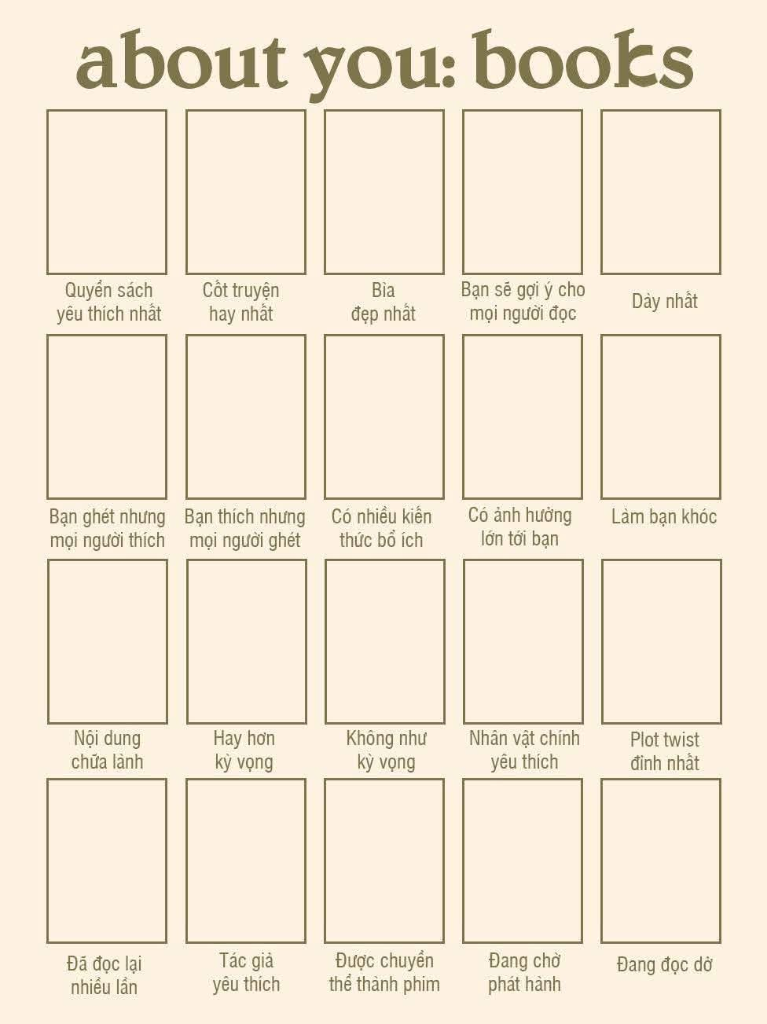
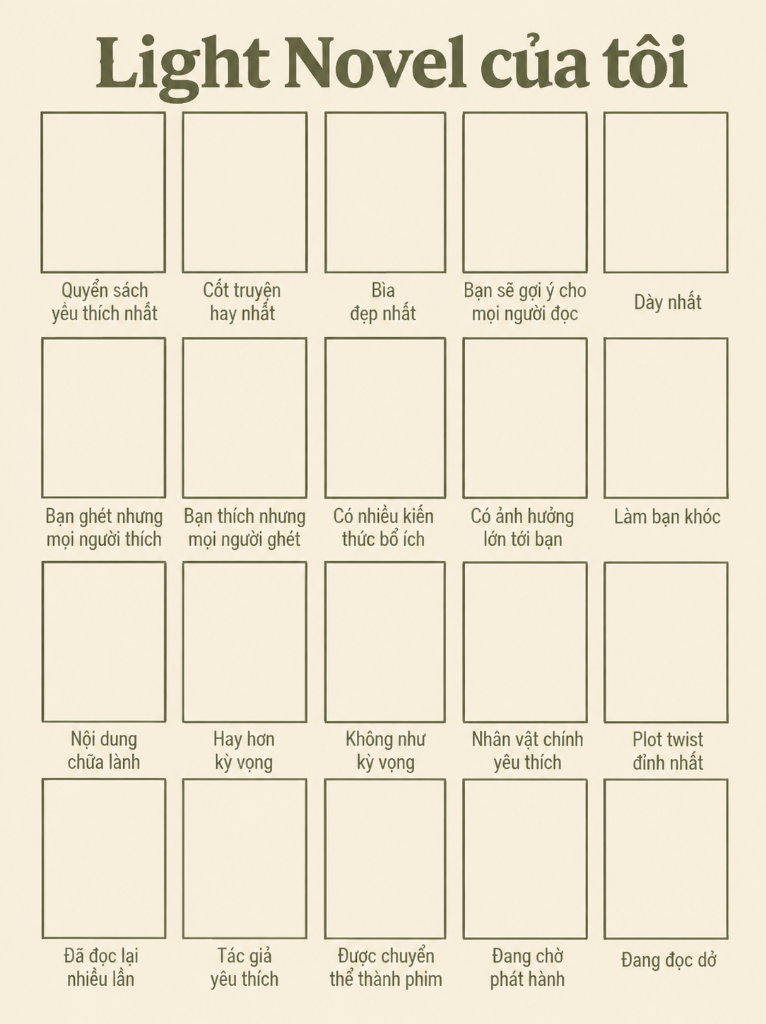
feat(collage): update template to 'Light Novel của tôi', lock watermark text, and fix volume cover selection

Changed region(s): [[0.03, 0.0312, 0.9608, 0.9688]]

diff --git a/src/app/collage/page.tsx b/src/app/collage/page.tsx
@@ -91,13 +91,24 @@ interface NovelCatalogItem {
   description?: string | null
 }
 
-const TEMPLATE_WIDTH = 767
+const TEMPLATE_WIDTH = 766
 const TEMPLATE_HEIGHT = 1024
+const FIXED_WATERMARK = 'LiDex • wibubros.id.vn'
 
-const GRID_COLS = [47, 186, 324, 463, 601]
-const GRID_ROWS = [110, 335, 559, 779]
-const BOX_WIDTH = 119
-const BOX_HEIGHT = 163
+const GRID_COLS = [
+  { x: 42, w: 123 },
+  { x: 183, w: 123 },
+  { x: 324, w: 121 },
+  { x: 463, w: 123 },
+  { x: 604, w: 123 },
+]
+
+const GRID_ROWS = [
+  { y: 112, h: 160 },
+  { y: 338, h: 159 },
+  { y: 562, h: 160 },
+  { y: 779, h: 159 },
+]
 
 function getCanvasImageUrl(url: string | null): string {
   if (!url) return ''
@@ -135,7 +146,6 @@ export default function CollageEditorPage() {
   const [generating, setGenerating] = useState(false)
   const [copiedToast, setCopiedToast] = useState(false)
   const [viewMode, setViewMode] = useState<'poster' | 'list'>('poster')
-  const [watermarkText, setWatermarkText] = useState('LiDex • wibubros.id.vn')
   const [showWatermark, setShowWatermark] = useState(true)
 
   const canvasRef = useRef<HTMLCanvasElement | null>(null)
@@ -295,16 +305,27 @@ export default function CollageEditorPage() {
 
   // Fetch volume list for a series
   const openVolumePicker = async (series: NovelCatalogItem) => {
-    if (!series.seriesId) return
+    const targetId = series.seriesId || Number(series.id)
+    if (!targetId || isNaN(targetId)) return
     setInspectSeries(series)
     setModalTab('volumes')
     setLoadingVolumes(true)
+    setSeriesVolumes([])
     try {
-      const res = await fetch(`/api/series-enrichment?id=${series.seriesId}&type=light_novel`)
+      const res = await fetch(`/api/series-enrichment?id=${targetId}&type=novel&v=4`)
       if (res.ok) {
         const data = await res.json()
-        if (data && Array.isArray(data.volumeReleases)) {
-          setSeriesVolumes(data.volumeReleases)
+        const rawVols = data?.vols || data?.volumeReleases || []
+        if (Array.isArray(rawVols) && rawVols.length > 0) {
+          const sorted = [...rawVols].sort((a: any, b: any) => {
+            const da = a.release_date ? new Date(a.release_date).getTime() : 0
+            const db = b.release_date ? new Date(b.release_date).getTime() : 0
+            if (da !== db) return da - db
+            return (Number(a.volume_number) || 0) - (Number(b.volume_number) || 0)
+          })
+          setSeriesVolumes(sorted)
+        } else {
+          setSeriesVolumes([])
         }
       }
     } catch (e) {
@@ -349,10 +370,17 @@ export default function CollageEditorPage() {
       const r = Math.floor(i / 5)
       const c = i % 5
 
-      const targetX = (GRID_COLS[c] + 1) * scale
-      const targetY = (GRID_ROWS[r] + 1) * scale
-      const targetW = (BOX_WIDTH - 2) * scale
-      const targetH = (BOX_HEIGHT - 2) * scale
+      const box = {
+        x: GRID_COLS[c].x,
+        y: GRID_ROWS[r].y,
+        w: GRID_COLS[c].w,
+        h: GRID_ROWS[r].h,
+      }
+
+      const targetX = (box.x + 1) * scale
+      const targetY = (box.y + 1) * scale
+      const targetW = (box.w - 2) * scale
+      const targetH = (box.h - 2) * scale
 
       const imgUrl = getCanvasImageUrl(slot.novel.coverUrl)
       if (!imgUrl) continue
@@ -398,7 +426,7 @@ export default function CollageEditorPage() {
           ctx.restore()
 
           // Stroke crisp border around the cover
-          ctx.strokeStyle = '#9e927a'
+          ctx.strokeStyle = '#5a5430'
           ctx.lineWidth = 2 * scale
           ctx.strokeRect(targetX - 1, targetY - 1, targetW + 2, targetH + 2)
         }
@@ -408,9 +436,9 @@ export default function CollageEditorPage() {
     }
 
     // 3. Draw Watermark if enabled
-    if (showWatermark && watermarkText.trim()) {
+    if (showWatermark) {
       ctx.save()
-      ctx.fillStyle = 'rgba(142, 130, 108, 0.92)'
+      ctx.fillStyle = 'rgba(90, 84, 48, 0.88)'
       ctx.font = `600 ${11 * scale}px "Plus Jakarta Sans", -apple-system, BlinkMacSystemFont, "Segoe UI", Roboto, sans-serif`
       ctx.textAlign = 'center'
       ctx.textBaseline = 'middle'
@@ -418,8 +446,7 @@ export default function CollageEditorPage() {
       const wmY = (TEMPLATE_HEIGHT - 12) * scale
       const wmX = (TEMPLATE_WIDTH / 2) * scale
       
-      // Draw watermark text centered near bottom
-      ctx.fillText(watermarkText.trim(), wmX, wmY)
+      ctx.fillText(FIXED_WATERMARK, wmX, wmY)
       ctx.restore()
     }
 
@@ -507,7 +534,7 @@ export default function CollageEditorPage() {
             <div className="flex items-center gap-2">
               <span className="text-2xl">📚</span>
               <h1 className="text-2xl sm:text-3xl font-black gradient-text">
-                Tạo Bảng Sách 20 Ô (About You: Books)
+                Tạo Bảng Sách 20 Ô (Light Novel Của Tôi)
               </h1>
             </div>
             <p className="text-xs sm:text-sm text-slate-400 mt-1 max-w-2xl">
@@ -573,27 +600,23 @@ export default function CollageEditorPage() {
             )}
           </div>
 
-          {/* Watermark customizer pill */}
+          {/* Watermark toggle pill */}
           <div className="flex items-center gap-3">
-            <div className="flex items-center gap-2 bg-slate-900 px-3 py-1 rounded-xl border border-slate-800">
-              <label className="flex items-center gap-1.5 cursor-pointer text-slate-300 font-semibold select-none">
+            <div className="flex items-center gap-2.5 bg-slate-900 px-3 py-1.5 rounded-xl border border-slate-800">
+              <label className="flex items-center gap-2 cursor-pointer text-slate-300 font-semibold select-none">
                 <input
                   type="checkbox"
                   checked={showWatermark}
                   onChange={e => setShowWatermark(e.target.checked)}
                   className="rounded border-slate-700 text-amber-500 focus:ring-0 cursor-pointer"
                 />
-                <span>Watermark:</span>
+                <span>Watermark ảnh:</span>
               </label>
-              {showWatermark && (
-                <input
-                  type="text"
-                  value={watermarkText}
-                  onChange={e => setWatermarkText(e.target.value)}
-                  placeholder="Watermark ảnh..."
-                  className="bg-slate-800 text-slate-200 px-2 py-0.5 rounded-md border border-slate-700 text-[11px] outline-none w-36"
-                />
-              )}
+              <span className={`text-[11px] font-mono px-2 py-0.5 rounded border transition-colors ${
+                showWatermark ? 'text-amber-400 bg-amber-950/60 border-amber-500/30 font-bold' : 'text-slate-500 bg-slate-800/40 border-slate-800 line-through'
+              }`}>
+                {FIXED_WATERMARK}
+              </span>
             </div>
 
             {/* View Mode Toggle */}
@@ -644,10 +667,17 @@ export default function CollageEditorPage() {
                 const r = Math.floor(slot.index / 5)
                 const c = slot.index % 5
 
-                const leftPct = (GRID_COLS[c] / TEMPLATE_WIDTH) * 100
-                const topPct = (GRID_ROWS[r] / TEMPLATE_HEIGHT) * 100
-                const widthPct = (BOX_WIDTH / TEMPLATE_WIDTH) * 100
-                const heightPct = (BOX_HEIGHT / TEMPLATE_HEIGHT) * 100
+                const box = {
+                  x: GRID_COLS[c].x,
+                  y: GRID_ROWS[r].y,
+                  w: GRID_COLS[c].w,
+                  h: GRID_ROWS[r].h,
+                }
+
+                const leftPct = (box.x / TEMPLATE_WIDTH) * 100
+                const topPct = (box.y / TEMPLATE_HEIGHT) * 100
+                const widthPct = (box.w / TEMPLATE_WIDTH) * 100
+                const heightPct = (box.h / TEMPLATE_HEIGHT) * 100
 
                 const isFilled = slot.novel !== null
 
@@ -707,12 +737,12 @@ export default function CollageEditorPage() {
               })}
 
               {/* Watermark Preview at bottom */}
-              {showWatermark && watermarkText.trim() && (
+              {showWatermark && (
                 <div
-                  className="absolute bottom-1 inset-x-0 text-center pointer-events-none text-[10px] font-semibold text-[#8c8168]/80 select-none"
+                  className="absolute bottom-1 inset-x-0 text-center pointer-events-none text-[10px] font-semibold text-[#5a5430]/80 select-none"
                   style={{ bottom: '0.9%' }}
                 >
-                  {watermarkText.trim()}
+                  {FIXED_WATERMARK}
                 </div>
               )}
             </div>
@@ -1039,8 +1069,9 @@ export default function CollageEditorPage() {
                     ) : (
                       <div className="grid grid-cols-2 sm:grid-cols-3 md:grid-cols-4 gap-3">
                         {seriesVolumes.map((vol, vIdx) => {
-                          const volNum = vol.volume_number || (vIdx + 1)
-                          const volCover = vol.image_url || inspectSeries.coverUrl
+                          const volNum = vol.volume_number != null ? vol.volume_number : (vIdx + 1)
+                          const volCover = vol.cover_url || vol.image_url || inspectSeries.coverUrl
+                          const volTitle = vol.title ? `${vol.title}` : `${inspectSeries.title} - Tập ${volNum}`
                           return (
                             <div
                               key={vol.id || vIdx}
@@ -1048,7 +1079,7 @@ export default function CollageEditorPage() {
                                 handleAssignNovel(activeSlotIdx, {
                                   id: `${inspectSeries.id}-v${volNum}`,
                                   seriesId: inspectSeries.seriesId,
-                                  title: `${inspectSeries.title} (Tập ${volNum})`,
+                                  title: volTitle,
                                   publisher: inspectSeries.publisher,
                                   coverUrl: volCover || '',
                                   volumeTitle: `Tập ${volNum}`,
@@ -1066,10 +1097,15 @@ export default function CollageEditorPage() {
                                   Tập {volNum}
                                 </div>
                               </div>
-                              <div className="text-center pt-1">
-                                <span className="text-[11px] font-bold text-slate-200 group-hover:text-amber-400">
+                              <div className="text-center pt-1 min-w-0">
+                                <span className="text-[11px] font-bold text-slate-200 group-hover:text-amber-400 line-clamp-1 block" title={volTitle}>
                                   Tập {volNum}
                                 </span>
+                                {vol.release_date && (
+                                  <span className="text-[9px] text-slate-400 block truncate">
+                                    {String(vol.release_date).slice(0, 10)}
+                                  </span>
+                                )}
                               </div>
                               <button
                                 type="button"

diff --git a/src/lib/db.ts b/src/lib/db.ts
@@ -1140,6 +1140,7 @@ async function optionalEnrichmentRows(label: string, query: string, params: any[
 
 export async function fetchSeriesEnrichmentData(seriesId: number, itemType: string) {
   try {
+    const targetType = itemType === 'light_novel' ? 'novel' : itemType
     const [ratingData, libraryData] = await Promise.all([
       optionalEnrichmentRows('rating summary', `
         SELECT 
@@ -1184,7 +1185,7 @@ export async function fetchSeriesEnrichmentData(seriesId: number, itemType: stri
     let fanVoteHistory: any[] = []
     let lidexScore = null
 
-    if (itemType === 'manga') {
+    if (targetType === 'manga') {
       const mangaMetaRows = await optionalEnrichmentRows('manga metadata', `
         SELECT series_id, demographic, original_language, vn_licensed, vn_publisher_id, updated_at
         FROM manga_meta
@@ -1197,12 +1198,12 @@ export async function fetchSeriesEnrichmentData(seriesId: number, itemType: stri
           if (pub.length) publisherName = pub[0].name_vi || pub[0].name
         }
       }
-    } else if (itemType === 'novel') {
+    } else if (targetType === 'novel') {
       const novelMetaRows = await optionalEnrichmentRows('novel metadata', `SELECT * FROM novel_meta WHERE series_id = $1`, [seriesId])
       if (novelMetaRows.length) novelMeta = novelMetaRows[0]
     }
 
-    if (itemType === 'manga' || itemType === 'novel') {
+    if (targetType === 'manga' || targetType === 'novel') {
       vols = await optionalEnrichmentRows('volumes', `
         SELECT id, volume_number, title, release_date, cover_url, price, currency, page_count, is_special
         FROM volumes
@@ -1218,7 +1219,7 @@ export async function fetchSeriesEnrichmentData(seriesId: number, itemType: stri
       ORDER BY sort_order ASC
     `, [seriesId])
 
-    if (itemType === 'novel') {
+    if (targetType === 'novel') {
       // 1. Fetch ranking rows
       const rankingRows = await optionalEnrichmentRows('LN ranking', `
         SELECT id, series_title, series_id, lidex_series_id, series_code, number_of_volumes, average_price, max_release_at, publisher, original_volumes, original_status, evalution, evaluation_basis, ln_score, trang_thai, drop_percent, drop_basis, average_gap_months, months_since_last_release, completion_ratio, publisher_activity, publisher_releases_last_24m, score_components, drop_components, cover_url, cover_source_title
@@ -1279,7 +1280,7 @@ export async function fetchSeriesEnrichmentData(seriesId: number, itemType: stri
       }).filter(point => point.sort > 0).sort((a, b) => a.sort - b.sort)
     }
 
-    if (itemType === 'anime') {
+    if (targetType === 'anime') {
       const animeDetails = await optionalEnrichmentRows('anime details', `SELECT * FROM series WHERE id = $1`, [seriesId])
       let anime_meta: any = null
       if (animeDetails.length) {

diff --git a/src/app/api/series-enrichment/route.ts b/src/app/api/series-enrichment/route.ts
@@ -15,9 +15,10 @@ export async function GET(req: NextRequest) {
 
   const { searchParams } = req.nextUrl
   const id = Number(searchParams.get('id'))
-  const itemType = searchParams.get('type') || ''
+  const rawType = searchParams.get('type') || ''
+  const itemType = rawType === 'light_novel' ? 'novel' : (rawType || 'novel')
 
-  if (!id || !itemType) {
+  if (!id) {
     return NextResponse.json(
       { error: 'Missing id or type parameter' },
       { status: 400, headers: { 'Cache-Control': 'no-store' } }
